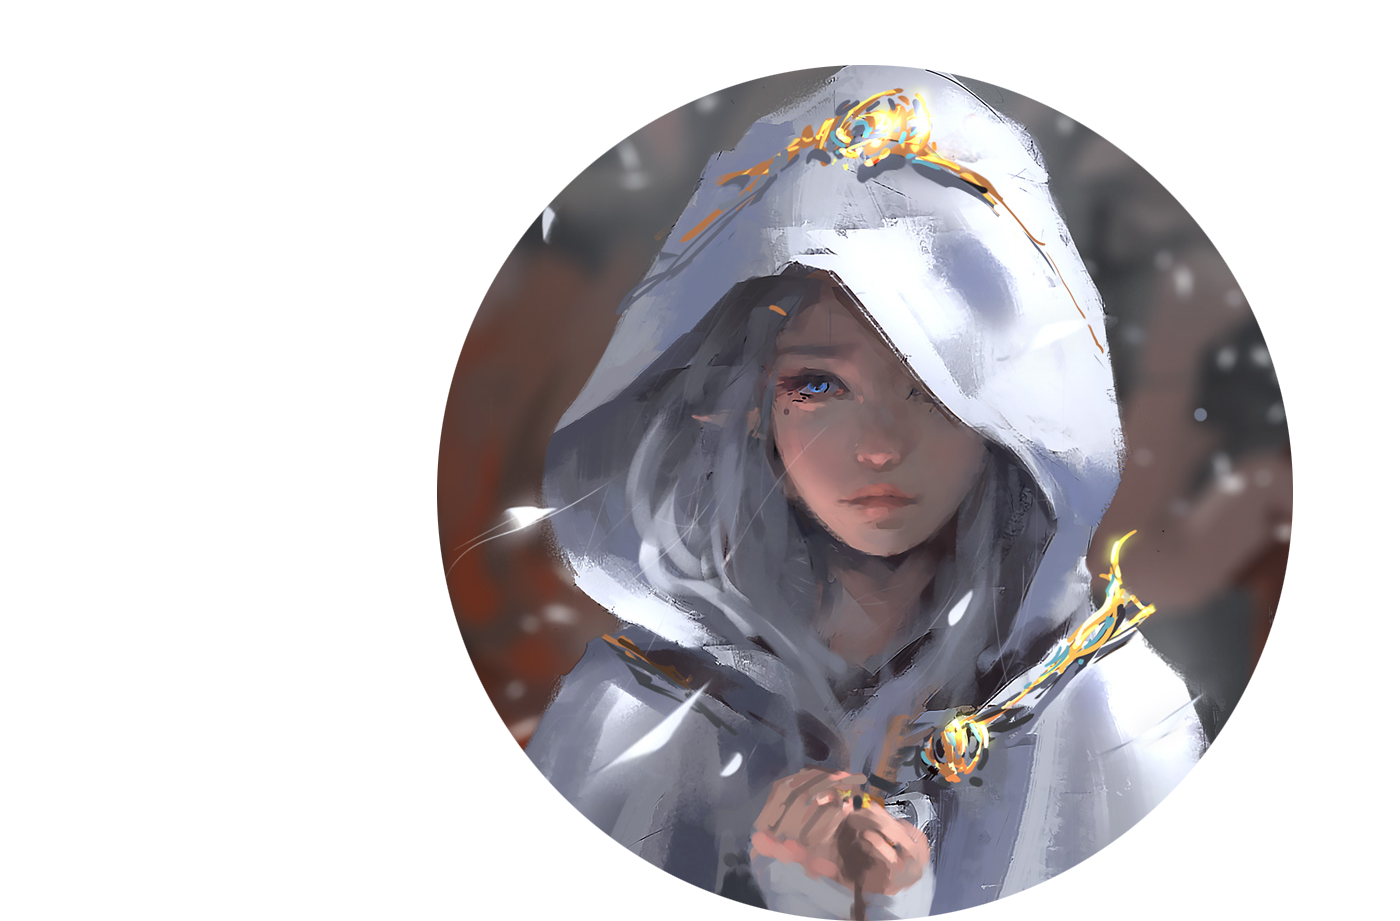
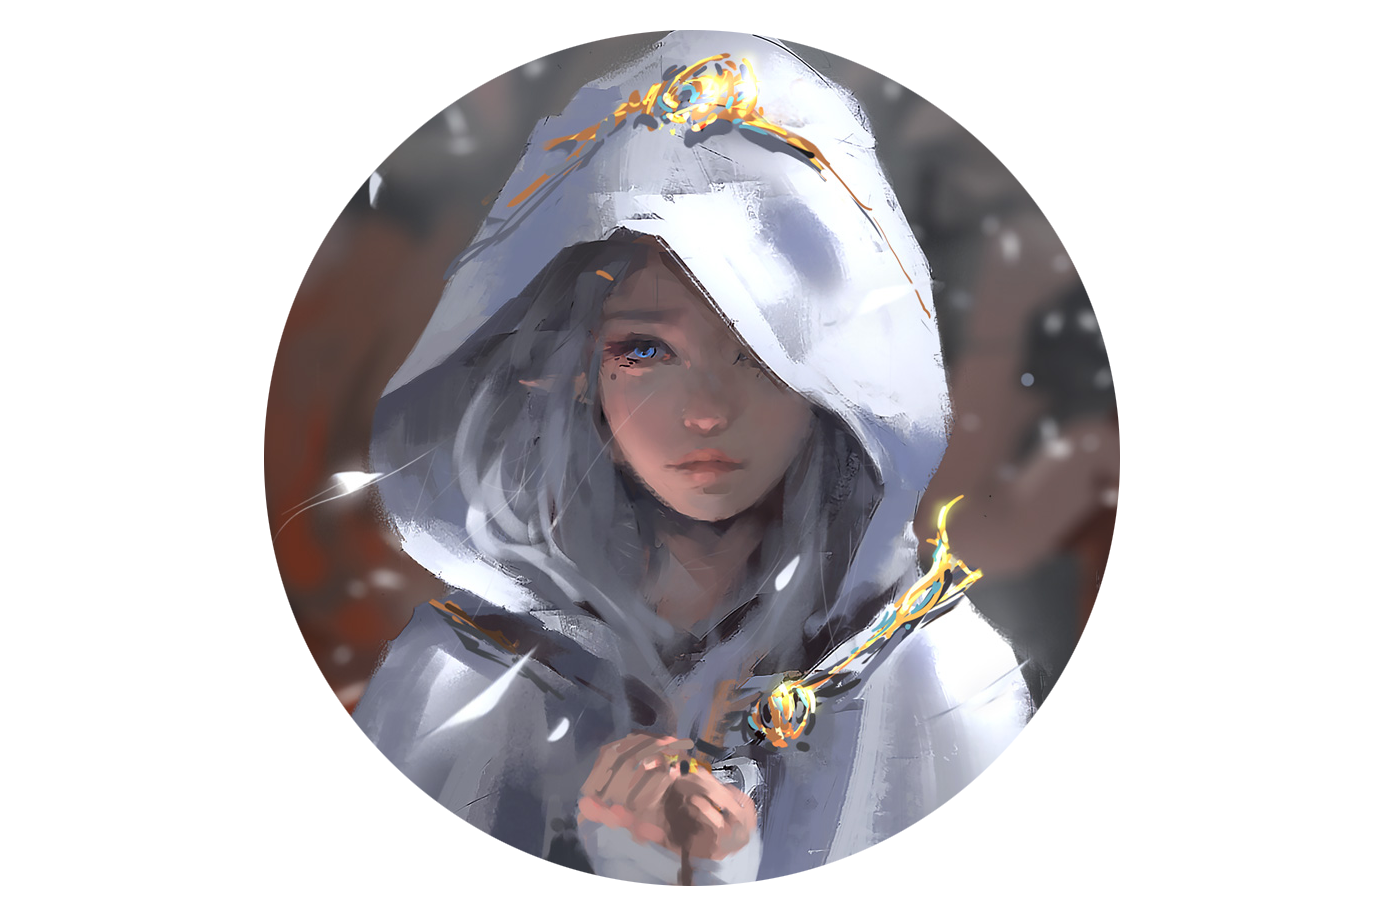
Site updated: 2017-07-31 13:23:36

diff --git a/2017/07/28/hello-world/index.html b/2017/07/28/hello-world/index.html
@@ -46,7 +46,7 @@
 <div class="intrude-less">
 	<header id="header" class="inner">
 		<a href="/" class="profilepic">
-			<img src="https://github.com/shuangmuaishang/shuangmuaishang.github.io/tree/master/img/头像.png" class="js-avatar">
+			<img src="https://github.com/shuangmuaishang/shuangmuaishang.github.io/tree/master/img/touxiang.png" class="js-avatar">
 		</a>
 		<hgroup>
 		  <h1 class="header-author"><a href="/">刘 征杰</a></h1>
@@ -104,7 +104,7 @@
 	<div class="intrude-less">
 		<header id="header" class="inner">
 			<div class="profilepic">
-				<img src="https://github.com/shuangmuaishang/shuangmuaishang.github.io/tree/master/img/头像.png" class="js-avatar">
+				<img src="https://github.com/shuangmuaishang/shuangmuaishang.github.io/tree/master/img/touxiang.png" class="js-avatar">
 			</div>
 			<hgroup>
 			  <h1 class="header-author js-header-author">刘 征杰</h1>

diff --git a/archives/2017/07/index.html b/archives/2017/07/index.html
@@ -42,7 +42,7 @@
 <div class="intrude-less">
 	<header id="header" class="inner">
 		<a href="/" class="profilepic">
-			<img src="https://github.com/shuangmuaishang/shuangmuaishang.github.io/tree/master/img/头像.png" class="js-avatar">
+			<img src="https://github.com/shuangmuaishang/shuangmuaishang.github.io/tree/master/img/touxiang.png" class="js-avatar">
 		</a>
 		<hgroup>
 		  <h1 class="header-author"><a href="/">刘 征杰</a></h1>
@@ -100,7 +100,7 @@
 	<div class="intrude-less">
 		<header id="header" class="inner">
 			<div class="profilepic">
-				<img src="https://github.com/shuangmuaishang/shuangmuaishang.github.io/tree/master/img/头像.png" class="js-avatar">
+				<img src="https://github.com/shuangmuaishang/shuangmuaishang.github.io/tree/master/img/touxiang.png" class="js-avatar">
 			</div>
 			<hgroup>
 			  <h1 class="header-author js-header-author">刘 征杰</h1>

diff --git a/archives/2017/index.html b/archives/2017/index.html
@@ -42,7 +42,7 @@
 <div class="intrude-less">
 	<header id="header" class="inner">
 		<a href="/" class="profilepic">
-			<img src="https://github.com/shuangmuaishang/shuangmuaishang.github.io/tree/master/img/头像.png" class="js-avatar">
+			<img src="https://github.com/shuangmuaishang/shuangmuaishang.github.io/tree/master/img/touxiang.png" class="js-avatar">
 		</a>
 		<hgroup>
 		  <h1 class="header-author"><a href="/">刘 征杰</a></h1>
@@ -100,7 +100,7 @@
 	<div class="intrude-less">
 		<header id="header" class="inner">
 			<div class="profilepic">
-				<img src="https://github.com/shuangmuaishang/shuangmuaishang.github.io/tree/master/img/头像.png" class="js-avatar">
+				<img src="https://github.com/shuangmuaishang/shuangmuaishang.github.io/tree/master/img/touxiang.png" class="js-avatar">
 			</div>
 			<hgroup>
 			  <h1 class="header-author js-header-author">刘 征杰</h1>

diff --git a/archives/index.html b/archives/index.html
@@ -42,7 +42,7 @@
 <div class="intrude-less">
 	<header id="header" class="inner">
 		<a href="/" class="profilepic">
-			<img src="https://github.com/shuangmuaishang/shuangmuaishang.github.io/tree/master/img/头像.png" class="js-avatar">
+			<img src="https://github.com/shuangmuaishang/shuangmuaishang.github.io/tree/master/img/touxiang.png" class="js-avatar">
 		</a>
 		<hgroup>
 		  <h1 class="header-author"><a href="/">刘 征杰</a></h1>
@@ -100,7 +100,7 @@
 	<div class="intrude-less">
 		<header id="header" class="inner">
 			<div class="profilepic">
-				<img src="https://github.com/shuangmuaishang/shuangmuaishang.github.io/tree/master/img/头像.png" class="js-avatar">
+				<img src="https://github.com/shuangmuaishang/shuangmuaishang.github.io/tree/master/img/touxiang.png" class="js-avatar">
 			</div>
 			<hgroup>
 			  <h1 class="header-author js-header-author">刘 征杰</h1>

diff --git a/index.html b/index.html
@@ -42,7 +42,7 @@
 <div class="intrude-less">
 	<header id="header" class="inner">
 		<a href="/" class="profilepic">
-			<img src="https://github.com/shuangmuaishang/shuangmuaishang.github.io/tree/master/img/头像.png" class="js-avatar">
+			<img src="https://github.com/shuangmuaishang/shuangmuaishang.github.io/tree/master/img/touxiang.png" class="js-avatar">
 		</a>
 		<hgroup>
 		  <h1 class="header-author"><a href="/">刘 征杰</a></h1>
@@ -100,7 +100,7 @@
 	<div class="intrude-less">
 		<header id="header" class="inner">
 			<div class="profilepic">
-				<img src="https://github.com/shuangmuaishang/shuangmuaishang.github.io/tree/master/img/头像.png" class="js-avatar">
+				<img src="https://github.com/shuangmuaishang/shuangmuaishang.github.io/tree/master/img/touxiang.png" class="js-avatar">
 			</div>
 			<hgroup>
 			  <h1 class="header-author js-header-author">刘 征杰</h1>
